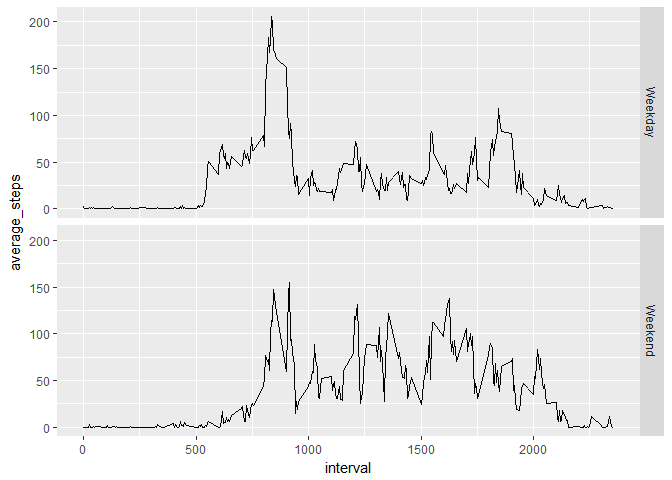
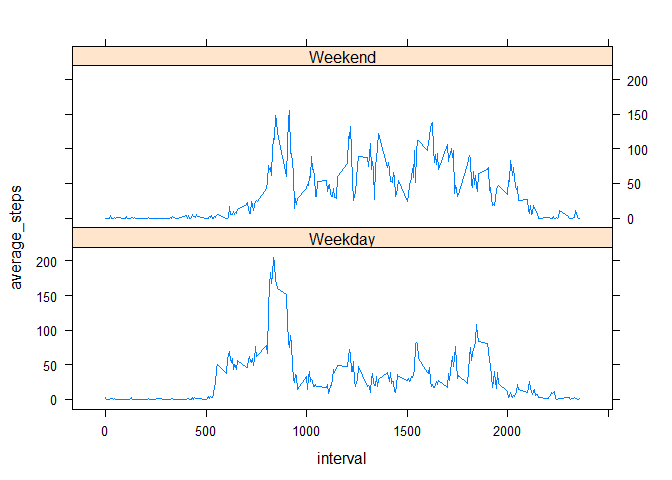
v.02
Removed the ggplot graph & left the xyplot only.

diff --git a/PA1_template.html b/PA1_template.html
@@ -211,9 +211,8 @@ data_new &lt;- data_new %&gt;% mutate(weekday = as.factor(weekday))</code></pre>
 <p><strong>Make a panel plot containing a time series plot (i.e. type = “l”) of the 5-minute interval (x-axis) and the average number of steps taken, averaged across all weekday days or weekend days (y-axis):</strong></p>
 <pre class="r"><code>average_steps_new &lt;- data_new %&gt;% group_by(weekday, interval) %&gt;% summarise(average_steps = mean(steps))
 
-ggplot(average_steps_new, aes(x=interval, y=average_steps)) + geom_line() + facet_grid(weekday ~ .) </code></pre>
[1 lines of base64/hex data omitted]
-<pre class="r"><code>xyplot(average_steps ~ interval|weekday, data = average_steps_new, type = &quot;l&quot;, layout = c(1,2))</code></pre>
+#ggplot(average_steps_new, aes(x=interval, y=average_steps)) + geom_line() + facet_grid(weekday ~ .) 
+xyplot(average_steps ~ interval|weekday, data = average_steps_new, type = &quot;l&quot;, layout = c(1,2))</code></pre>
[1 lines of base64/hex data omitted]
 </div>
 

diff --git a/PA1_template.md b/PA1_template.md
@@ -221,16 +221,11 @@ data_new <- data_new %>% mutate(weekday = as.factor(weekday))
 ```r
 average_steps_new <- data_new %>% group_by(weekday, interval) %>% summarise(average_steps = mean(steps))
 
-ggplot(average_steps_new, aes(x=interval, y=average_steps)) + geom_line() + facet_grid(weekday ~ .) 
-```
-
-![](PA1_template_files/figure-html/unnamed-chunk-10-1.png)<!-- -->
-
-```r
+#ggplot(average_steps_new, aes(x=interval, y=average_steps)) + geom_line() + facet_grid(weekday ~ .) 
 xyplot(average_steps ~ interval|weekday, data = average_steps_new, type = "l", layout = c(1,2))
 ```
 
-![](PA1_template_files/figure-html/unnamed-chunk-10-2.png)<!-- -->
+![](PA1_template_files/figure-html/unnamed-chunk-10-1.png)<!-- -->
 
 
 
